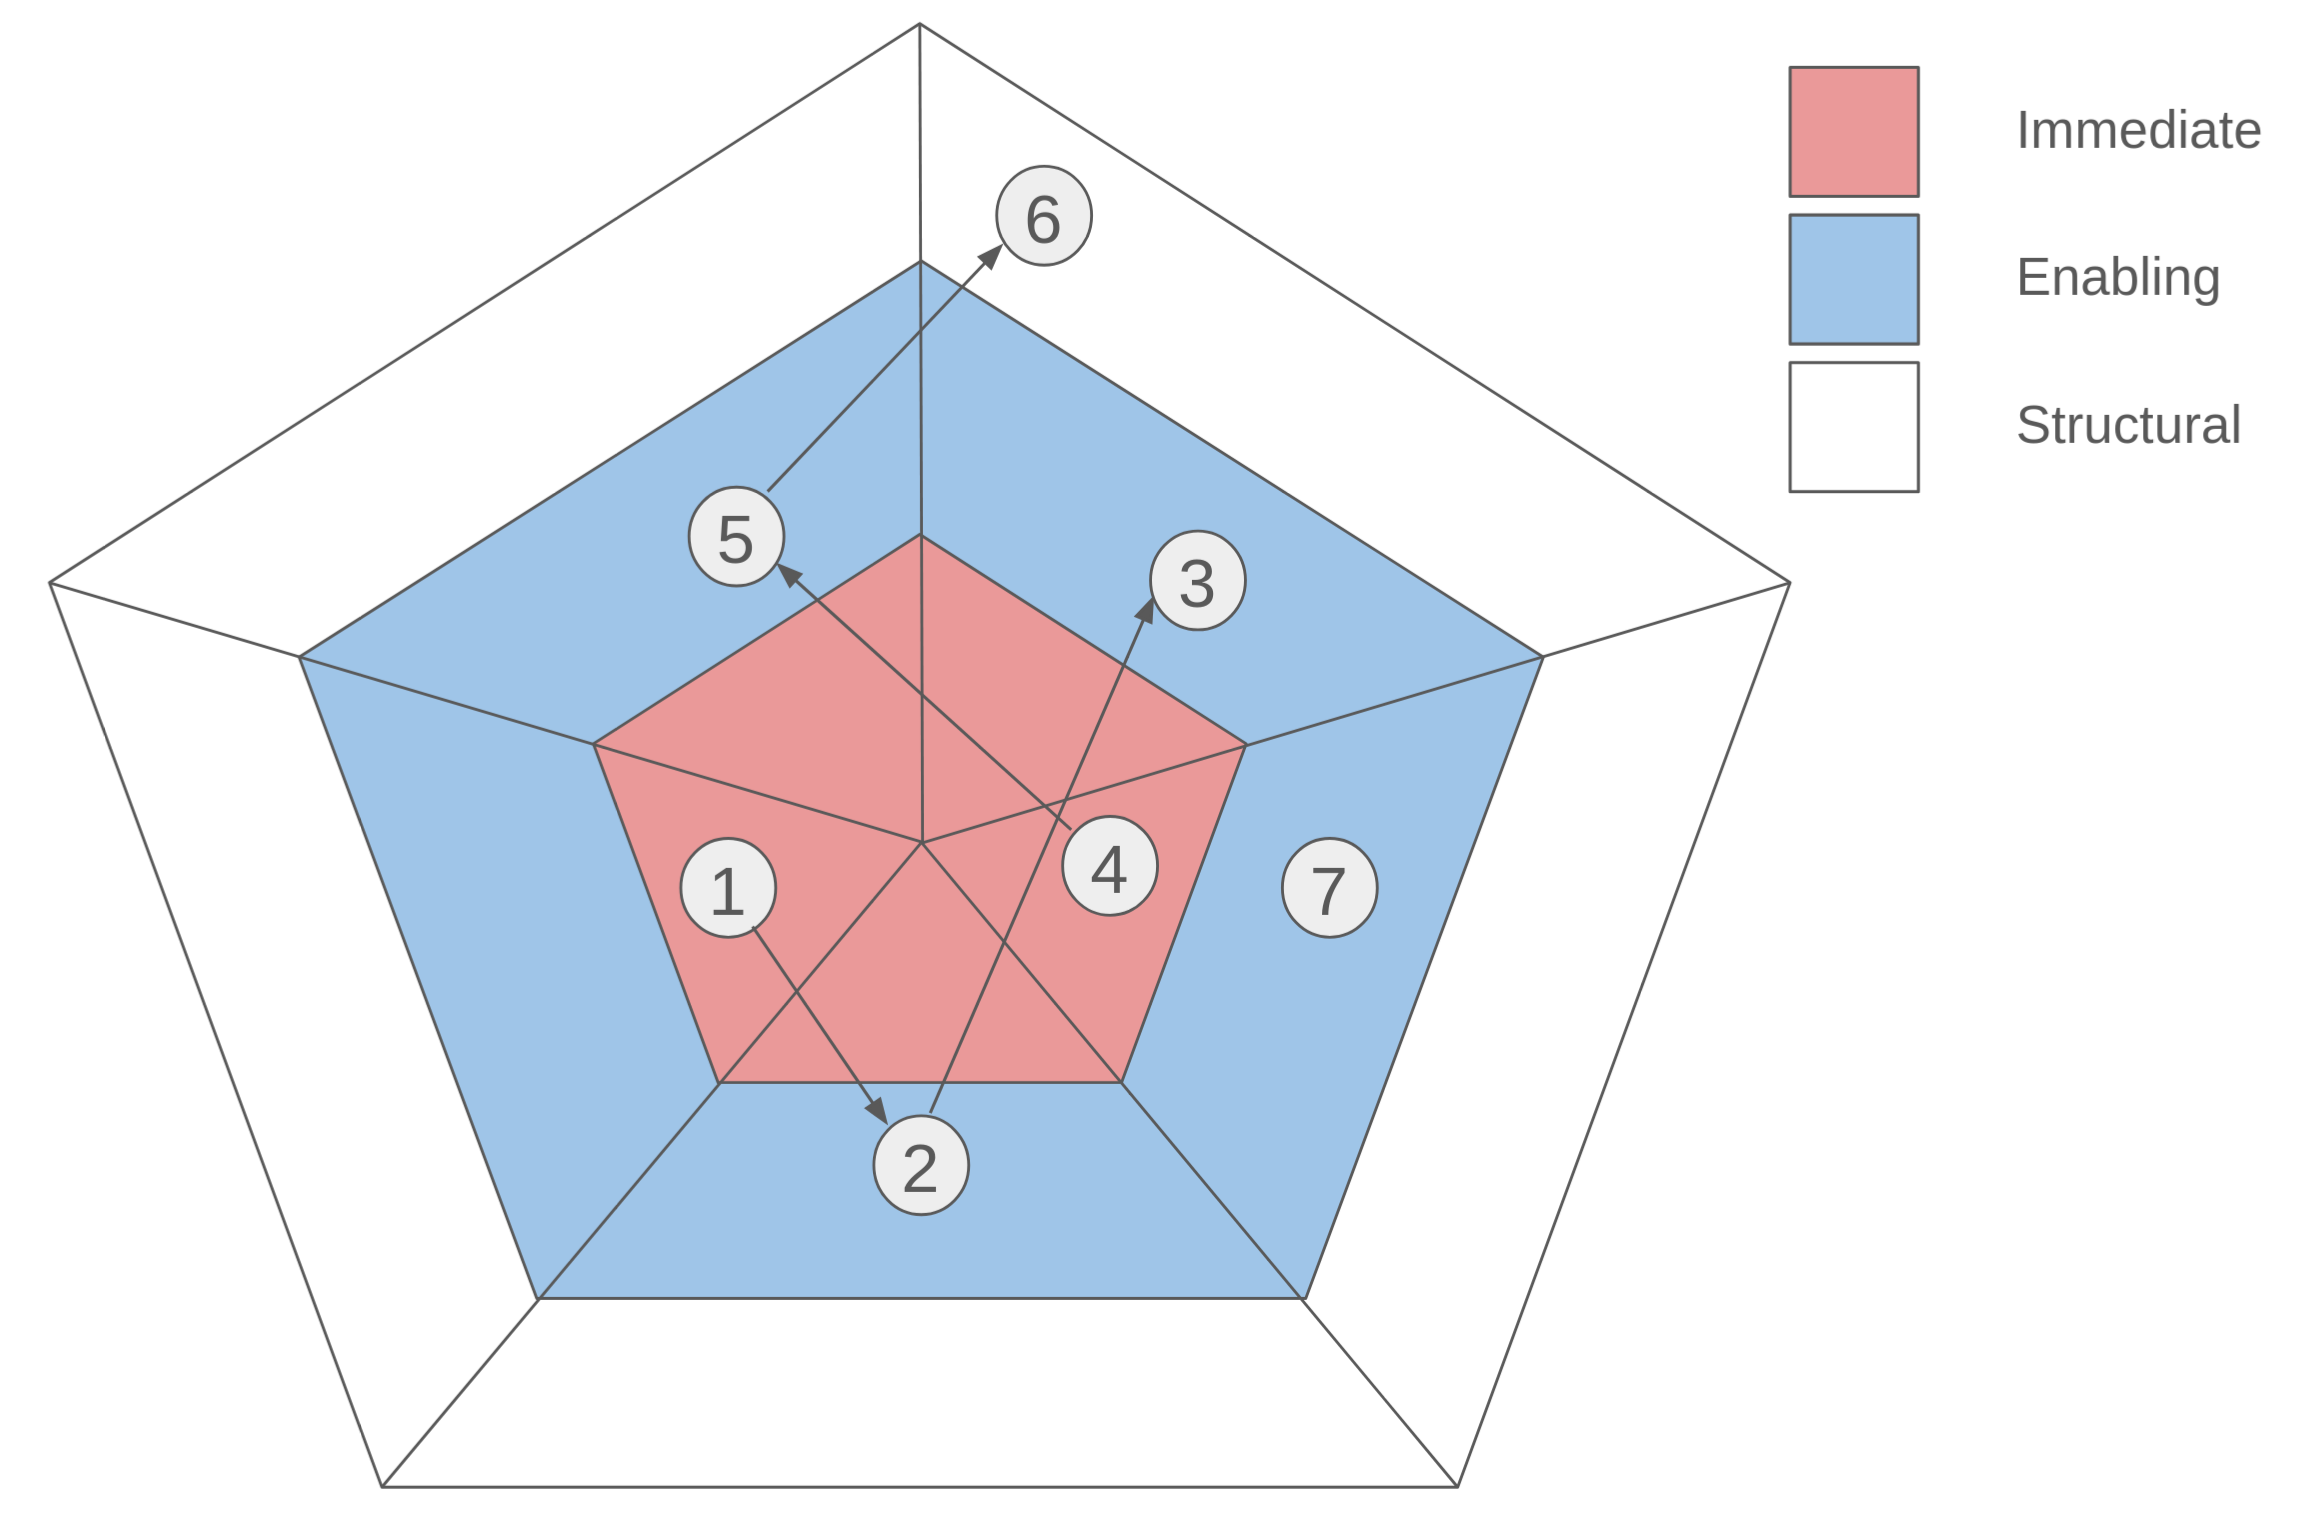
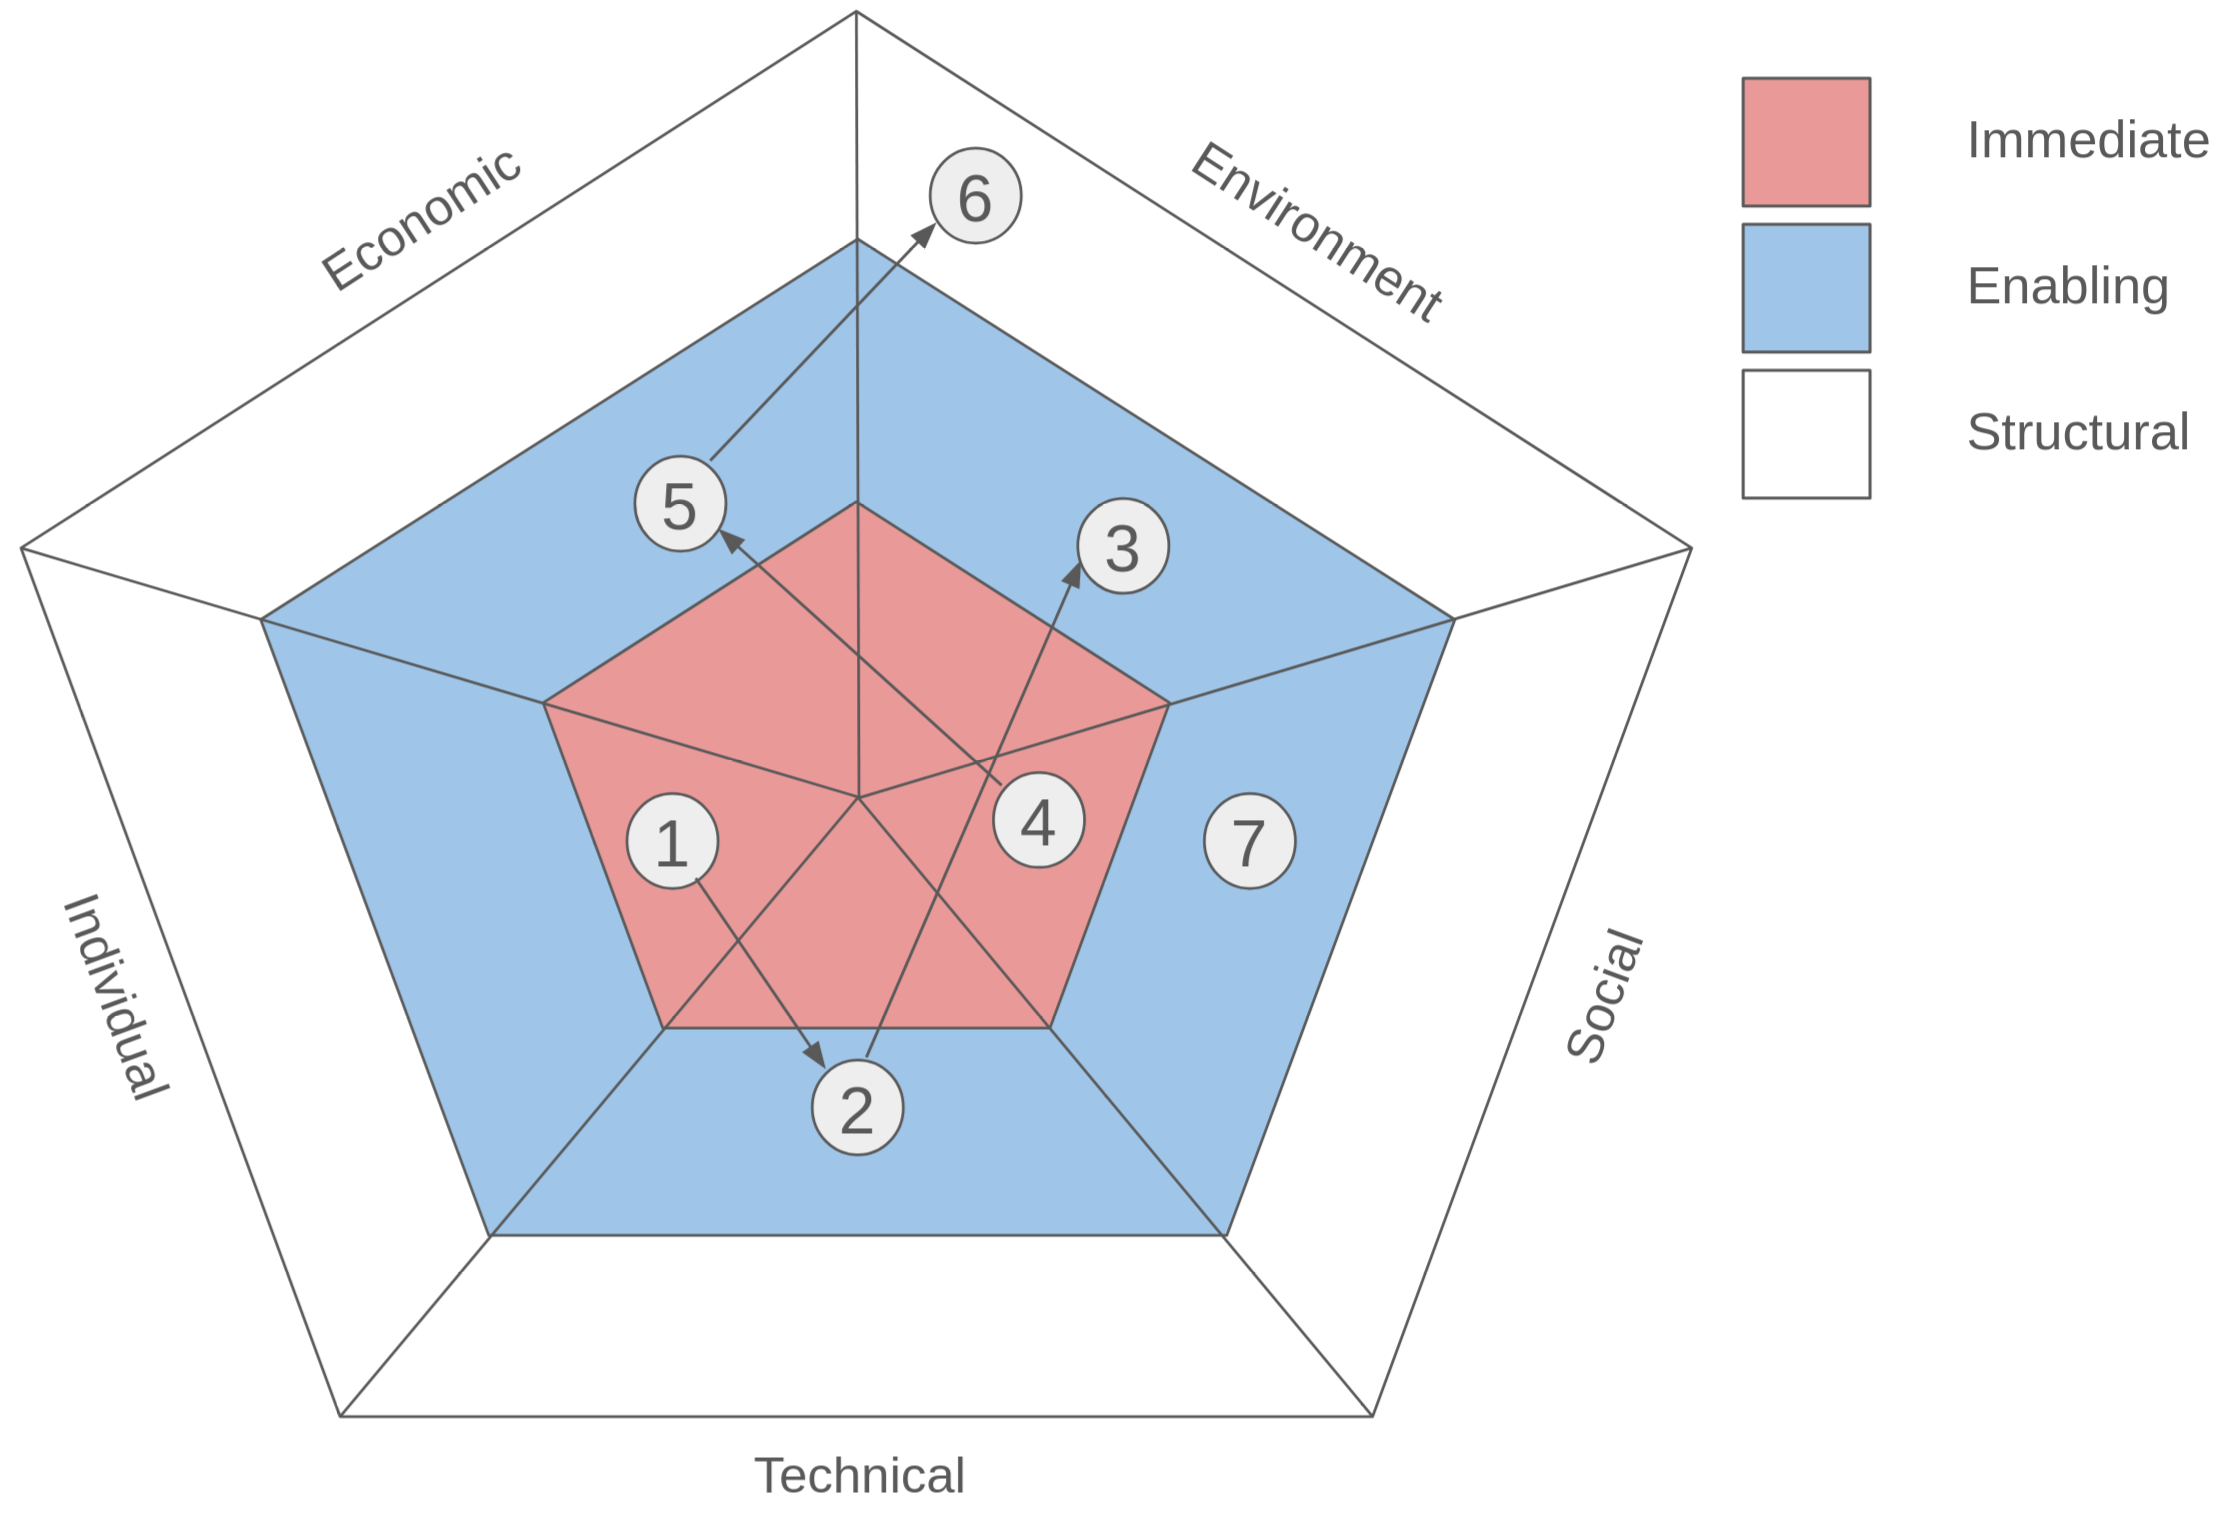
sustainability?

diff --git a/Sections/sustainability_analysis.tex b/Sections/sustainability_analysis.tex
@@ -7,16 +7,14 @@ Just like approximate computing is a tradeoff between precision and processing s
 
 All the categories represent unquestionable quality of life improvements for all humans, though enacting them may result in contraticting results. For instance, goal 1 is to end poverty in all its forms everywhere. So a factory gets established, which creates several jobs for the empoverished residents at this location. However, the factory produces runoff that contaminates a nearby water source, going against goal number 6 of ensuring availability and sustainability of water and sanitation for all. 
 
-The following analysis has been created using a lightweight version of SusAF (Sustainability Assessment Framework)~\cite{SusAF_website}. SusAF divides sustainability effects into 5 categories: Social, individual, technical, economic and environmental. The social aspect describes how the artifact under review affects interpersonal relationships, and the individual aspect describe changes in personal health and quality of life. The technical aspect concerns itself with the lifecycle of a product or service, and how the service can be adapted to changing needs or technical demands. The economic aspect describes how the artifact under review changes the business side of things, whether performing research or creating monetary value becomes easier or harder. Finally, the Environmental aspect describe how the artifact under review may affect nature, through increasing or decreasing the load on nature through human presence.
+The following analysis has been created using a lightweight version of SusAF (Sustainability Assessment Framework)~\cite{SusAF_website}. SusAF divides sustainability effects into 5 categories: Social, individual, technical, economic and environmental. The social aspect describes how the artifact under review affects interpersonal relationships, and the individual aspect describe changes in personal health and quality of life. The technical aspect concerns itself with the lifecycle of a product or service, and how the service can be adapted to changing needs or technical demands. The economic aspect describes how the artifact under review changes the business side of things, whether performing research or creating monetary value becomes easier or harder. Finally, the environmental aspect describe how the artifact under review may affect nature, through increasing or decreasing the load on nature through human presence.
 
 The artifact under review for this thesis is an analysis of reliability in approximate computing tools. The intended audience consists of approximate computing system developers and system architects looking to improve efficiency of their solution, and the analysis will be performed from their point of view. 
 
-\subsection{Individual Impacts}
-The biggest contribution on the individual plane is that the analysis may change a users perception of the reliability of approximate computing, and this could lead to implementing approximate computing in a hitherto untested area. 
+\subsection{Individual social impacts}
+The biggest contribution on the individual plane is that the analysis may change a users perception of the reliability of approximate computing, and this could lead to implementing approximate computing in a hitherto untested areas. 
 
 
-\subsection{Social Impacts}
-The same as for Individual Impacts...
 \subsection{Environmental Impacts}
 An analysis may facilitate the implementation of approximate computing in fields that can benefit from it. This results in lower resource usage if the output is not increased (e.g. performing larger simulations due to simulations being cheaper, thereby negating the positive effect of the system.
 
@@ -31,10 +29,25 @@ If the approximate computing system is a drop-in tool, such as a compiler optimi
 This analysis does not delve into the scalability of approximate computing. This is further work.
 
 
+Figure~\ref{fig:SusAF_diagram} shows how the different aspects of sustainability relate to each other. The numbers correspond to the entries in table~\ref{table:SusAF_table}. The arrows show in what direction the different sustainability impacts may affect the other impacts, this is also represented in the table.
+There are 3 different colors in figure~\ref{fig:SusAF_diagram} that represent different types of impacts: Immediate impacts, which are direct effects of the production/use of the service, enabling impacts, which are effects that come as a result of the Immediate impacts, and lastly Structural, which represent broad impacts on a societal scale.
+\begin{table}[]
+    \centering
+    \begin{tabular}{p{0.1\linewidth}|p{0.25\linewidth}|p{0.25\linewidth}|p{0.2\linewidth}} 
+        Number & Description & category & Relates to: \\
+        \hline
+         1 & Individual confidence in the usage of approximate computing tools is reduced & Individual & 2 \\
+         2 & The development of new approximate computing tools is discouraged & Technical & 3\\
+         3 & Not using available techniques that reduce the power requirements of a system is tantamount to increasing power draw & Environment && \\
+         4 & Trust in approximate computing concepts increases & Social &  5 \\
+         5 & Increased adoption of approximate computing leads to lower power consumption & Economic &6 \\    
+         6 & Can do more with existing resources & Environment & &\\
+         7 & Confidence in approximate computing is increased& Social&  \\
+    \end{tabular}
+    \caption{Table with sustainability impacts}
+    \label{tab:my_label}
+\end{table}
 
-Figure~\ref{fig:SusAF_diagram} shows how the different aspects of sustainability relate to each other. The numbers correspond to the entries in table~\ref{table:SusAF_table}. The arrows show in what direction the different sustainability outcomes may affect the other outcomes.
-
-\todo[inline]{create table}
 
 \begin{figure}
     \centering

diff --git a/main.tex b/main.tex
@@ -38,9 +38,9 @@
 \import{./Sections/}{2_method}
 \import{./Sections}{3_results}
 \import{./Sections/}{4_discussion}
-\import{./Sections}{sustainability_analysis}
 \import{./Sections/}{5_challenges}
 \import{./Sections/}{6_conclusion}
+\import{./Sections}{sustainability_analysis}
 \import{./Sections/}{7_further_work}
 \import{./Sections}{8_appendix.tex}
 % Printing bibliography
